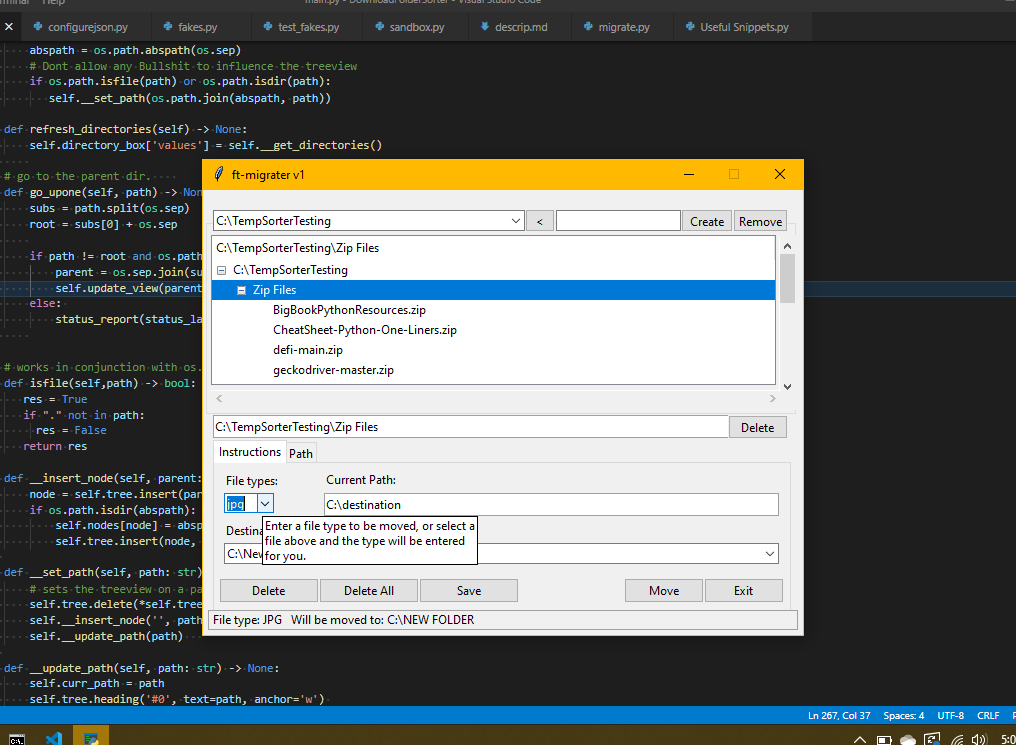
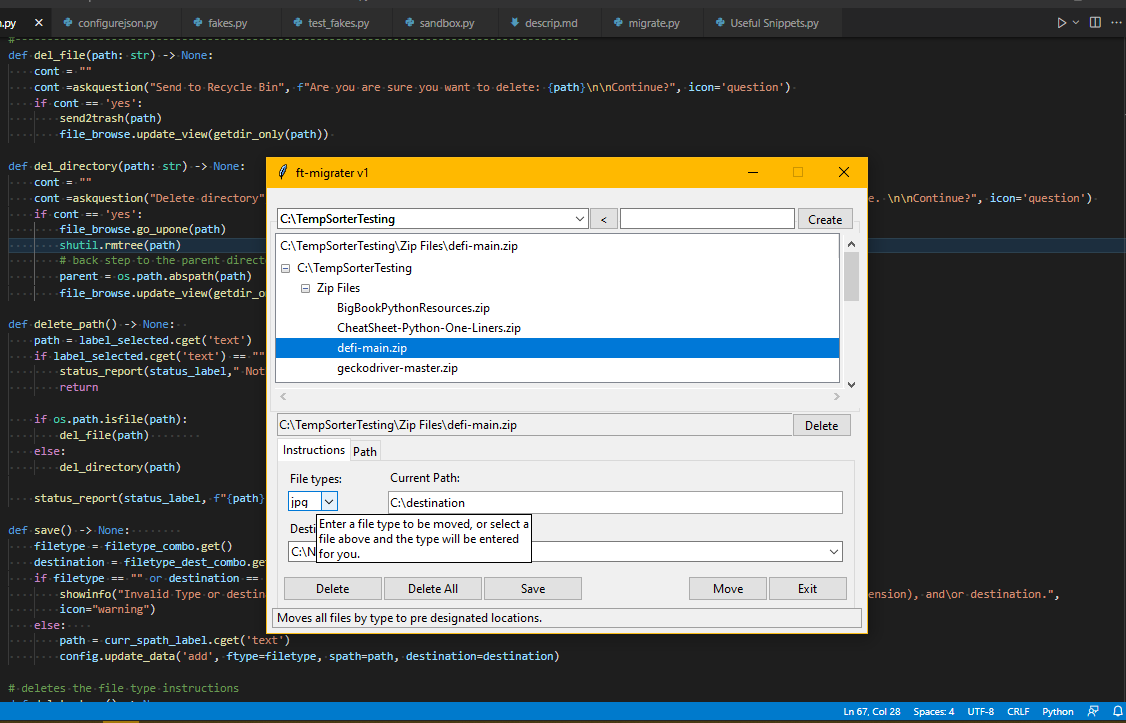
Add files via upload
better screenshot and updated main.py. Made a dumb mistake and wrote the same routine... twice, almost identical, but the first one was much better, and well thought out. I have no idea why i did this.

diff --git a/main.py b/main.py
@@ -54,15 +54,16 @@ JSON_FILE = './instructions.json'
 #----------------------------------------------------------------------------------------
 def del_file(path: str) -> None:
     cont = ""
-    cont =askquestion("Send to Recycle Bin", "Are you are sure you want to delete: " + path + "\n\nContinue?", icon='question') 
+    cont =askquestion("Send to Recycle Bin", f"Are you are sure you want to delete: {path}\n\nContinue?", icon='question') 
     if cont == 'yes':
         send2trash(path)
         file_browse.update_view(getdir_only(path)) 
 
 def del_directory(path: str) -> None:
     cont = ""
-    cont =askquestion("Delete directory", "Are you are sure you want to delete: " + path + " \nand all it's contents? \nThis cannot be undone. \n\nContinue?", icon='question') 
+    cont =askquestion("Delete directory", f"Are you are sure you want to delete: {path}\nand all it's contents? \nThis cannot be undone. \n\nContinue?", icon='question') 
     if cont == 'yes':
+        file_browse.go_upone(path)
         shutil.rmtree(path)
         # back step to the parent directory
         parent = os.path.abspath(path)
@@ -71,7 +72,7 @@ def del_directory(path: str) -> None:
 def delete_path() -> None:  
     path = label_selected.cget('text')
     if label_selected.cget('text') == "":
-        status_report(status_label," Nothing to delete.")
+        status_report(status_label," Nothing to remove.")
         return
 
     if os.path.isfile(path):
@@ -168,23 +169,15 @@ def create_directory() -> None:
         new_path =os.path.join(path, dir)
         os.mkdir(new_path)
         #update the view
-        file_browse.go_upone(path)
+        file_browse.update_view(path)
         new_directory.delete(0, tk.END)
+        status_report(status_label, f"Created {new_path}")
     else: status_report(status_label, "Nothing to Create")    
 
 
-# very careful with this
-def remove_directory() -> None:
-    path = label_selected.cget('text')
-    if path == "": return
-    cont = askquestion("Remove directory", f"You are about to remove {path}\n\nPermenatly from this computer.\n\nAre you sure you want to continue?", icon="warning")
-    if cont == 'yes':
-        if os.path.isdir(path) and dir != "":
-            file_browse.go_upone(path)
- #           shutil.rmtree(path)
-            new_directory.delete(0, tk.END)
-        else: status_report(status_label, "Nothing to Remove")
-        
+def upone_directoryy() -> None:
+    file_browse.go_upone(label_selected.cget('text'))
+            
 #-----------------------------------------------------------------------------------------
 #  GUI EVENT HANDLERS
 #----------------------------------------------------------------------------------------
@@ -232,7 +225,7 @@ class FileView(object):
         self.directory_box = ttk.Combobox(main_win, textvariable=self.directory_selected, state='readonly')
         self.directory_box['values'] = self.__get_directories()
         self.directory_box.current(0)
-        self.directory_box.place(width=350,x=10, y=20) #510
+        self.directory_box.place(width=312,x=10, y=20) #510
         self.directory_box.bind('<<ComboboxSelected>>', self.__path_changed)
         CreateToolTip(self.directory_box, "Select a directory to view its contents.")
         
@@ -261,6 +254,7 @@ class FileView(object):
         
         if path != root and os.path.exists(path):
             parent = os.sep.join(subs[:-1])
+            label_selected.configure(text=parent)
             self.update_view(parent)
         else: 
             status_report(status_label,"Already at root.")    
@@ -366,7 +360,7 @@ class FileView(object):
         if not os.path.isfile(selection):
            if destination != selection:
                filetype_dest_combo.set(selection)
-               # Dont think this is necessary
+#TODO               
 # ont let the same path be loaded int to the destination box as the Home path            
                """ showinfo("Same Destination", "Can't move to the same destination.\nIf you want to overlook a type, don't set any instructions.")
            else:"""
@@ -402,18 +396,20 @@ tabControl.place(width=580, height=175,x=10,y=250)
 
 #===================================== MANAGE DIRECTORY WIDGETS =========================================================
 
+upone_button = ttk.Button(main_win, text="<", command=upone_directoryy)   
+upone_button.place(width=30,height=23, x=322, y=19)
+CreateToolTip(upone_button, "Go to parent directory")
 new_directory = ttk.Entry()
-new_directory.place(width=125, x=413-50, y=20)
-CreateToolTip(new_directory, "Navigate to the directory you want to create in and select it, type in the directory name and click 'Create'")
+new_directory.place(width=175, x=413-60, y=20)
+CreateToolTip(new_directory, "Type in the directory name, navigate to the parent, and click 'Create'")
 create_button = ttk.Button(main_win, text="Create", command=create_directory)   
-create_button.place(width=50,height=23, x=540-50, y=19)
-remove_button = ttk.Button(main_win, text="Remove", command=remove_directory)   
-remove_button.place(width=50,height=23, x=540, y=19)
-CreateToolTip(remove_button, "Navigate to the directory you want to remove and click 'Remove'.")
+create_button.place(width=57,height=23, x=530, y=19)
+CreateToolTip(create_button, "Navigate to the directory you want to create in and select it, type in the new directory name and click 'Create'")
+
 #===================================== CREATE DIRECTORY WIDGETS=========================================================
 
 #==================================== SELECTED LABEL\BUTTON =========================================================
-label_selected = ttk.Label(main_win, borderwidth=3, background="white", relief='solid',justify="left")
+label_selected = ttk.Label(main_win, borderwidth=3, relief='solid',justify="left") # background="white",
 label_selected.place(height=23, width=575, x=(10), y=225)
 CreateToolTip(label_selected,"The current directory being sorted.")
 # 
@@ -433,7 +429,7 @@ file_type = tk.StringVar()
 filetype_combo = ttk.Combobox(tab1, textvariable=file_type, state='readwrite')
 filetype_combo.place(width=50, height=20, x=10, y=30)
 filetype_combo.bind('<<ComboboxSelected>>', filetype_changed)
-CreateToolTip(filetype_combo, text="Enter a file type to be sorted, or slect a file above ans the type will be entered.") 
+CreateToolTip(filetype_combo, text="Enter a file type to be moved, or select a file above and the type will be entered for you.") 
 #========================================== END FILE TYPES =======================================================
 
 #========================================== HOMEPATH TAB1 ========================================================
